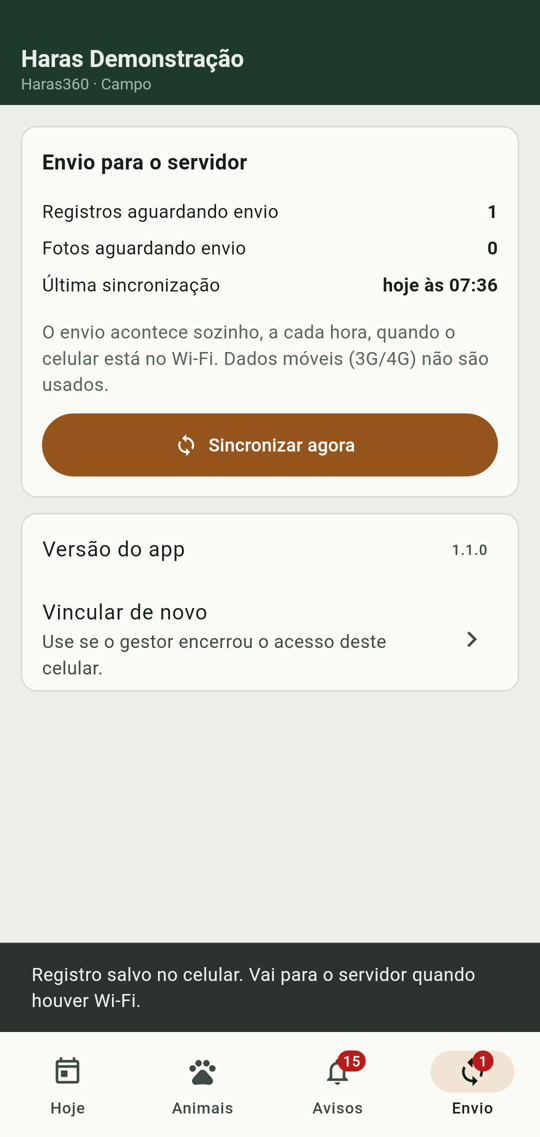
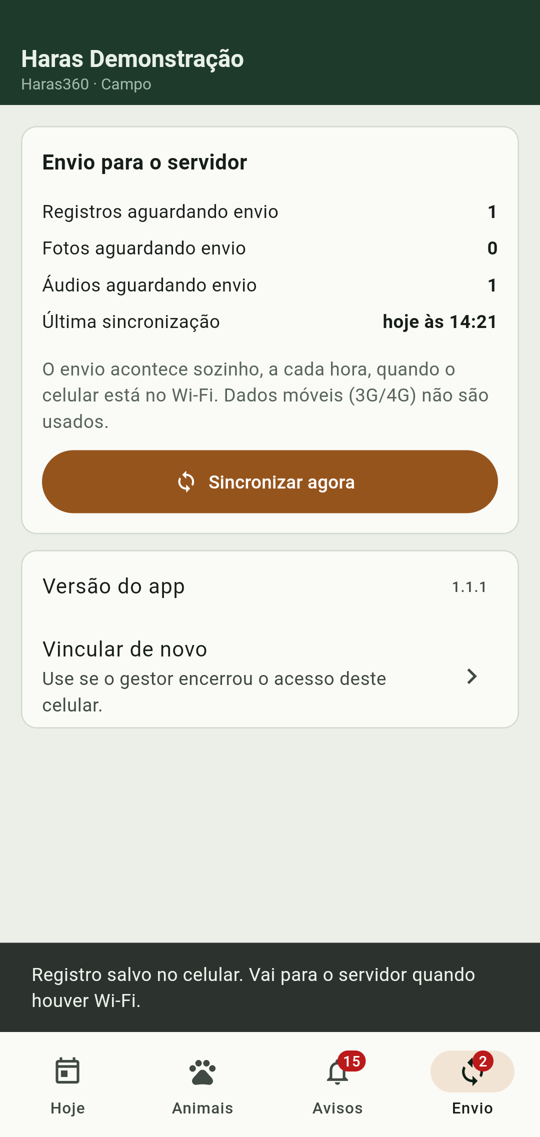
v1.2.0: áudio na demonstração e no manual, histórico, README e versão
Claude-Session: https://claude.ai/code/session_01WrFXA8vd7puHpu6whifFWK

Changed region(s): [[0.0593, 0.2463, 0.9185, 0.6464], [0.8593, 0.5541, 0.8889, 0.6157]]

diff --git a/backend/app/static/ajuda.html b/backend/app/static/ajuda.html
@@ -340,14 +340,17 @@ kbd{font-family:var(--f-mono);font-size:.84em;background:var(--surface-2);border
     </section>
     <section id="app"><h2>App Android do caseiro</h2><span class="perfil">Caseiro</span><span class="perfil">Gestor</span>
       <p>O app funciona sem internet: o caseiro registra no pasto e o celular envia sozinho quando chega ao Wi-Fi da sede. Dados móveis (3G/4G) não são usados. Android 8 ou superior.</p>
-      <ol><li><b>Instalar:</b> no celular do caseiro, entre no Portal Campo e toque em Instalar o app Android, no topo da tela Hoje. O gestor também encontra o link e um QR Code de download na janela Vincular celular. Se o Android pedir, permita instalar apps desta origem.</li><li><b>Vincular:</b> o gestor abre Equipe e toca em Vincular celular na linha do caseiro. No app, toque em Ler QR Code. O código vale 10 minutos e uma única vez. Sem câmera, digite o servidor e o código mostrados abaixo do QR Code.</li><li><b>Trabalhar:</b> a tela Hoje mostra as tarefas atrasadas, de hoje e da semana. Toque em Registrar numa tarefa e o formulário já vem preenchido. Até 4 fotos por registro, comprimidas no celular.</li><li><b>Enviar:</b> a cada hora, e sempre que o app abre no Wi-Fi, os registros e as fotos vão para o servidor. Na aba Envio estão a fila, a hora da última sincronização e o botão Sincronizar agora.</li></ol>
+      <ol><li><b>Instalar:</b> no celular do caseiro, entre no Portal Campo e toque em Instalar o app Android, no topo da tela Hoje. O gestor também encontra o link e um QR Code de download na janela Vincular celular. Se o Android pedir, permita instalar apps desta origem.</li><li><b>Vincular:</b> o gestor abre Equipe e toca em Vincular celular na linha do caseiro. No app, toque em Ler QR Code. O código vale 10 minutos e uma única vez. Sem câmera, digite o servidor e o código mostrados abaixo do QR Code.</li><li><b>Trabalhar:</b> a tela Hoje mostra as tarefas atrasadas, de hoje e da semana. Toque em Registrar numa tarefa e o formulário já vem preenchido. Até 4 fotos por registro, comprimidas no celular, e um áudio de até 2 minutos: toque em Gravar áudio, fale e toque em Parar. Dá para ouvir e apagar antes de salvar.</li><li><b>Enviar:</b> a cada hora, e sempre que o app abre no Wi-Fi, os registros e as fotos vão para o servidor. Na aba Envio estão a fila, a hora da última sincronização e o botão Sincronizar agora.</li></ol>
       <figure><img src="/ajuda/img/vincular.png" alt="QR Code para vincular o celular do caseiro" loading="lazy"><figcaption>Equipe › Vincular celular: o QR Code que o app lê.</figcaption></figure>
       <div class="fotos-app">
         <figure><img src="/ajuda/img/app-hoje.png" alt="Tela Hoje do app" loading="lazy"><figcaption>Tarefas do dia, mesmo sem internet.</figcaption></figure>
-        <figure><img src="/ajuda/img/app-registro.png" alt="Registro de ocorrência no app" loading="lazy"><figcaption>Registro gravado no celular.</figcaption></figure>
+        <figure><img src="/ajuda/img/app-registro.png" alt="Registro de ocorrência no app, com áudio" loading="lazy"><figcaption>Registro com áudio, gravado no celular.</figcaption></figure>
         <figure><img src="/ajuda/img/app-envio-pendente.png" alt="Aba Envio com um registro aguardando o Wi-Fi" loading="lazy"><figcaption>Aguardando o Wi-Fi para enviar.</figcaption></figure>
       </div>
-      <p>O registro feito no app aparece no prontuário com a origem "App". O gestor pode encerrar o celular em Equipe › Sessões e aparelhos ativos; os registros que ainda estiverem no celular continuam guardados até um novo vínculo. Se o servidor recusar um registro (por exemplo, animal excluído), ele fica em Envio › Recusados pelo servidor, com Tentar de novo.</p>
+      <p>O registro feito no app aparece no prontuário com a origem "App". Quando tem áudio, o gestor ouve pelo player no próprio registro, no prontuário e nos últimos registros do campo do Painel. O áudio vai para o servidor só no Wi-Fi, como as fotos, e sai junto se o registro for excluído.</p>
+      <figure><img src="/ajuda/img/audio-painel.png" alt="Player de áudio nos últimos registros do campo" loading="lazy" style="max-width:460px"><figcaption>Áudio do caseiro no Painel do gestor.</figcaption></figure>
+      <p>O administrador liga ou desliga o áudio por plano (grade de planos e módulos) e define a duração máxima em Parametrizações › App do caseiro.</p>
+      <p> O gestor pode encerrar o celular em Equipe › Sessões e aparelhos ativos; os registros que ainda estiverem no celular continuam guardados até um novo vínculo. Se o servidor recusar um registro (por exemplo, animal excluído), ele fica em Envio › Recusados pelo servidor, com Tentar de novo.</p>
       <p>Quando o servidor recebe uma versão nova, o app avisa na aba Envio e oferece o download. A atualização instala por cima, sem perder dados.</p>
     </section>
     <section id="equipe"><h2>Equipe e sessões</h2><span class="perfil">Gestor</span>

diff --git a/web/ajuda.html b/web/ajuda.html
@@ -65,14 +65,17 @@ kbd{font-family:var(--f-mono);font-size:.84em;background:var(--surface-2);border
     </section>
     <section id="app"><h2>App Android do caseiro</h2><span class="perfil">Caseiro</span><span class="perfil">Gestor</span>
       <p>O app funciona sem internet: o caseiro registra no pasto e o celular envia sozinho quando chega ao Wi-Fi da sede. Dados móveis (3G/4G) não são usados. Android 8 ou superior.</p>
-      <ol><li><b>Instalar:</b> no celular do caseiro, entre no Portal Campo e toque em Instalar o app Android, no topo da tela Hoje. O gestor também encontra o link e um QR Code de download na janela Vincular celular. Se o Android pedir, permita instalar apps desta origem.</li><li><b>Vincular:</b> o gestor abre Equipe e toca em Vincular celular na linha do caseiro. No app, toque em Ler QR Code. O código vale 10 minutos e uma única vez. Sem câmera, digite o servidor e o código mostrados abaixo do QR Code.</li><li><b>Trabalhar:</b> a tela Hoje mostra as tarefas atrasadas, de hoje e da semana. Toque em Registrar numa tarefa e o formulário já vem preenchido. Até 4 fotos por registro, comprimidas no celular.</li><li><b>Enviar:</b> a cada hora, e sempre que o app abre no Wi-Fi, os registros e as fotos vão para o servidor. Na aba Envio estão a fila, a hora da última sincronização e o botão Sincronizar agora.</li></ol>
+      <ol><li><b>Instalar:</b> no celular do caseiro, entre no Portal Campo e toque em Instalar o app Android, no topo da tela Hoje. O gestor também encontra o link e um QR Code de download na janela Vincular celular. Se o Android pedir, permita instalar apps desta origem.</li><li><b>Vincular:</b> o gestor abre Equipe e toca em Vincular celular na linha do caseiro. No app, toque em Ler QR Code. O código vale 10 minutos e uma única vez. Sem câmera, digite o servidor e o código mostrados abaixo do QR Code.</li><li><b>Trabalhar:</b> a tela Hoje mostra as tarefas atrasadas, de hoje e da semana. Toque em Registrar numa tarefa e o formulário já vem preenchido. Até 4 fotos por registro, comprimidas no celular, e um áudio de até 2 minutos: toque em Gravar áudio, fale e toque em Parar. Dá para ouvir e apagar antes de salvar.</li><li><b>Enviar:</b> a cada hora, e sempre que o app abre no Wi-Fi, os registros e as fotos vão para o servidor. Na aba Envio estão a fila, a hora da última sincronização e o botão Sincronizar agora.</li></ol>
       <figure><img src="/ajuda/img/vincular.png" alt="QR Code para vincular o celular do caseiro" loading="lazy"><figcaption>Equipe › Vincular celular: o QR Code que o app lê.</figcaption></figure>
       <div class="fotos-app">
         <figure><img src="/ajuda/img/app-hoje.png" alt="Tela Hoje do app" loading="lazy"><figcaption>Tarefas do dia, mesmo sem internet.</figcaption></figure>
-        <figure><img src="/ajuda/img/app-registro.png" alt="Registro de ocorrência no app" loading="lazy"><figcaption>Registro gravado no celular.</figcaption></figure>
+        <figure><img src="/ajuda/img/app-registro.png" alt="Registro de ocorrência no app, com áudio" loading="lazy"><figcaption>Registro com áudio, gravado no celular.</figcaption></figure>
         <figure><img src="/ajuda/img/app-envio-pendente.png" alt="Aba Envio com um registro aguardando o Wi-Fi" loading="lazy"><figcaption>Aguardando o Wi-Fi para enviar.</figcaption></figure>
       </div>
-      <p>O registro feito no app aparece no prontuário com a origem "App". O gestor pode encerrar o celular em Equipe › Sessões e aparelhos ativos; os registros que ainda estiverem no celular continuam guardados até um novo vínculo. Se o servidor recusar um registro (por exemplo, animal excluído), ele fica em Envio › Recusados pelo servidor, com Tentar de novo.</p>
+      <p>O registro feito no app aparece no prontuário com a origem "App". Quando tem áudio, o gestor ouve pelo player no próprio registro, no prontuário e nos últimos registros do campo do Painel. O áudio vai para o servidor só no Wi-Fi, como as fotos, e sai junto se o registro for excluído.</p>
+      <figure><img src="/ajuda/img/audio-painel.png" alt="Player de áudio nos últimos registros do campo" loading="lazy" style="max-width:460px"><figcaption>Áudio do caseiro no Painel do gestor.</figcaption></figure>
+      <p>O administrador liga ou desliga o áudio por plano (grade de planos e módulos) e define a duração máxima em Parametrizações › App do caseiro.</p>
+      <p> O gestor pode encerrar o celular em Equipe › Sessões e aparelhos ativos; os registros que ainda estiverem no celular continuam guardados até um novo vínculo. Se o servidor recusar um registro (por exemplo, animal excluído), ele fica em Envio › Recusados pelo servidor, com Tentar de novo.</p>
       <p>Quando o servidor recebe uma versão nova, o app avisa na aba Envio e oferece o download. A atualização instala por cima, sem perder dados.</p>
     </section>
     <section id="equipe"><h2>Equipe e sessões</h2><span class="perfil">Gestor</span>

diff --git a/backend/app/demonstracao.py b/backend/app/demonstracao.py
@@ -88,6 +88,26 @@ def criar(db, gestor_email, gestor_senha, caseiro_email, caseiro_senha):
     nasc4 = R.d("2026-02-20")
     reg("d4", R.iso(R.add_meses(nasc4, 3)), "vacina", protocolos=tri, dose=1, produto="Trivalente", lote="LT0401")
     reg("d4", R.iso(R.add_meses(nasc4, 4)), "vacina", protocolos=tri, dose=2, produto="Trivalente", lote="LT0401")
-    reg("d4", a(1), "ocorrencia", C, titulo="Potro com leve secreção nasal", gravidade="Moderada")
+    reg("d4", a(1), "ocorrencia", ("Caseiro Demonstração", "App"), titulo="Potro com leve secreção nasal", gravidade="Moderada",
+        obs="Gravei um áudio explicando.")
+    db.flush()
+    _audio_demo(db, h.id)
     db.commit()
     return h
+
+
+def _audio_demo(db, hid):
+    """Áudio de exemplo (tom de 6 segundos) no último registro feito pelo app (v1.2.0)."""
+    import shutil
+    from pathlib import Path
+
+    from .config import FOTOS_DIR
+    from .db import Audio
+    rg = db.scalar(select(Registro).where(Registro.haras_id == hid, Registro.origem == "App").order_by(Registro.id.desc()))
+    if not rg:
+        return
+    pasta = Path(FOTOS_DIR) / str(hid)
+    pasta.mkdir(parents=True, exist_ok=True)
+    aid = "d" * 8 + "0" * 24
+    shutil.copy(Path(__file__).parent / "recursos" / "demo-audio.m4a", pasta / f"{aid}.m4a")
+    db.add(Audio(id=aid, registro_id=rg.id, haras_id=hid, arquivo=f"{aid}.m4a", duracao=6))

diff --git a/tests/visual/capturas.py b/tests/visual/capturas.py
@@ -81,6 +81,10 @@ with sync_playwright() as pw:
     entrar(g, "gestor@demonstracao.local", captura_2fa="2fa")
     g.wait_for_selector(".kpi")
     foto(g, "painel")
+    # v1.2.0: áudio do caseiro com player nos últimos registros do campo
+    assert g.locator(".audio-reg audio").count() > 0, "falta o player de áudio nos registros do campo"
+    g.locator(".audio-reg").first.scroll_into_view_if_needed()
+    g.locator(".audio-reg").first.locator("xpath=ancestor::div[contains(@class,'card')][1]").screenshot(path=str(SAIDA / "audio-painel.png"))
     for v in ("animais", "importar", "agenda", "protocolos", "equipe", "parametros", "auditoria", "plano", "notificacoes", "assistente", "sobre", "glossario"):
         ir(g, v)
         assert g.inner_text("#view").strip(), f"tela vazia: {v}"

diff --git a/docs/HISTORICO.md b/docs/HISTORICO.md
@@ -2,6 +2,17 @@
 
 Uma nota por versão, da mais recente para a mais antiga.
 
+## v1.2.0 · 20/11/2026 · Áudio nos registros do caseiro
+* **App:** botão Gravar áudio no registro (até 2 minutos, AAC mono a 32 kbps, cerca de 250 KB por minuto), com contador, ouvir e apagar antes de salvar. Funciona sem internet: o áudio entra na fila e vai só no Wi-Fi, depois do registro e das fotos. A ficha do animal toca os áudios, inclusive os que ainda estão no celular.
+* **Servidor:** `POST /api/app/audios` (um por registro, tipo conferido pelo conteúdo, idempotente), `/audios/{id}` só para o mesmo haras, exclusão junto com o registro e migração 003.
+* **Portal do gestor:** player no prontuário e nos últimos registros do campo do Painel.
+* **Parametrização:** módulo "Áudio nos registros do app" na grade de planos e duração máxima em Parametrizações › App do caseiro (15 a 300 segundos, padrão 120).
+* **Correções da primeira atualização real:**
+  * a chave pública de atualização (a do Journey) ficava fora do pacote por uma regra do `.gitignore`; agora vai no pacote, o pacote não é gerado sem ela e o teste de instalação confere a impressão digital;
+  * uma atualização recusada antes de começar agora aparece na tela, em vez de "Nenhuma";
+  * o campo SHA-256 da tela de atualização funciona em HTTP (a conferência fica no servidor).
+* **Testes:** 6 testes da API de áudio, teste de unidade da duração e teste no emulador com áudio numa ocorrência sem Wi-Fi, conferido no servidor.
+
 ## v1.1.1 · 20/11/2026 · Instalação em VM compartilhada e tela de Administradores
 Correções vindas da primeira instalação real, na VM que já roda a plataforma de reservatórios.
 * **Instalador convive com outra aplicação:**

diff --git a/README.md b/README.md
@@ -15,8 +15,8 @@ A especificação aprovada está em [`docs/ESPECIFICACAO.md`](docs/ESPECIFICACAO
 | v0.1.0 | 19/11/2026 | etapa/0.1-repositorio | Código de outubro no Git, testes automatizados, documentação | Publicada |
 | v1.0.0 | 19/11/2026 | etapa/1.0-vps | Portais e API na segunda VM micro, sem Docker, 2FA, auditoria, parametrizações, logotipo do haras, pacote assinado com volta automática, backup OCI | Publicada |
 | v1.1.0 | 20/11/2026 | etapa/1.1-app-android | App Android do caseiro: offline, envio só no Wi-Fi, vínculo por QR Code, APK assinado servido pelo próprio servidor | Publicada |
-| v1.1.1 | 20/11/2026 | etapa/1.1.1-instalador | Instalador em VM compartilhada (porta livre, Caddy preservado, fuso), QR Code do 2FA, botão do app, tela de Administradores | Em teste (PR) |
-| v1.2.0 | | etapa/1.2-audio | Áudio nos registros do caseiro | Planejada |
+| v1.1.1 | 20/11/2026 | etapa/1.1.1-instalador | Instalador em VM compartilhada (porta livre, Caddy preservado, fuso), QR Code do 2FA, botão do app, tela de Administradores | Publicada |
+| v1.2.0 | 20/11/2026 | etapa/1.2-audio | Áudio nos registros do caseiro; chave pública no pacote; erro de atualização visível; SHA-256 em HTTP | Em teste (PR) |
 
 Notas de cada versão: [`docs/HISTORICO.md`](docs/HISTORICO.md).
 
